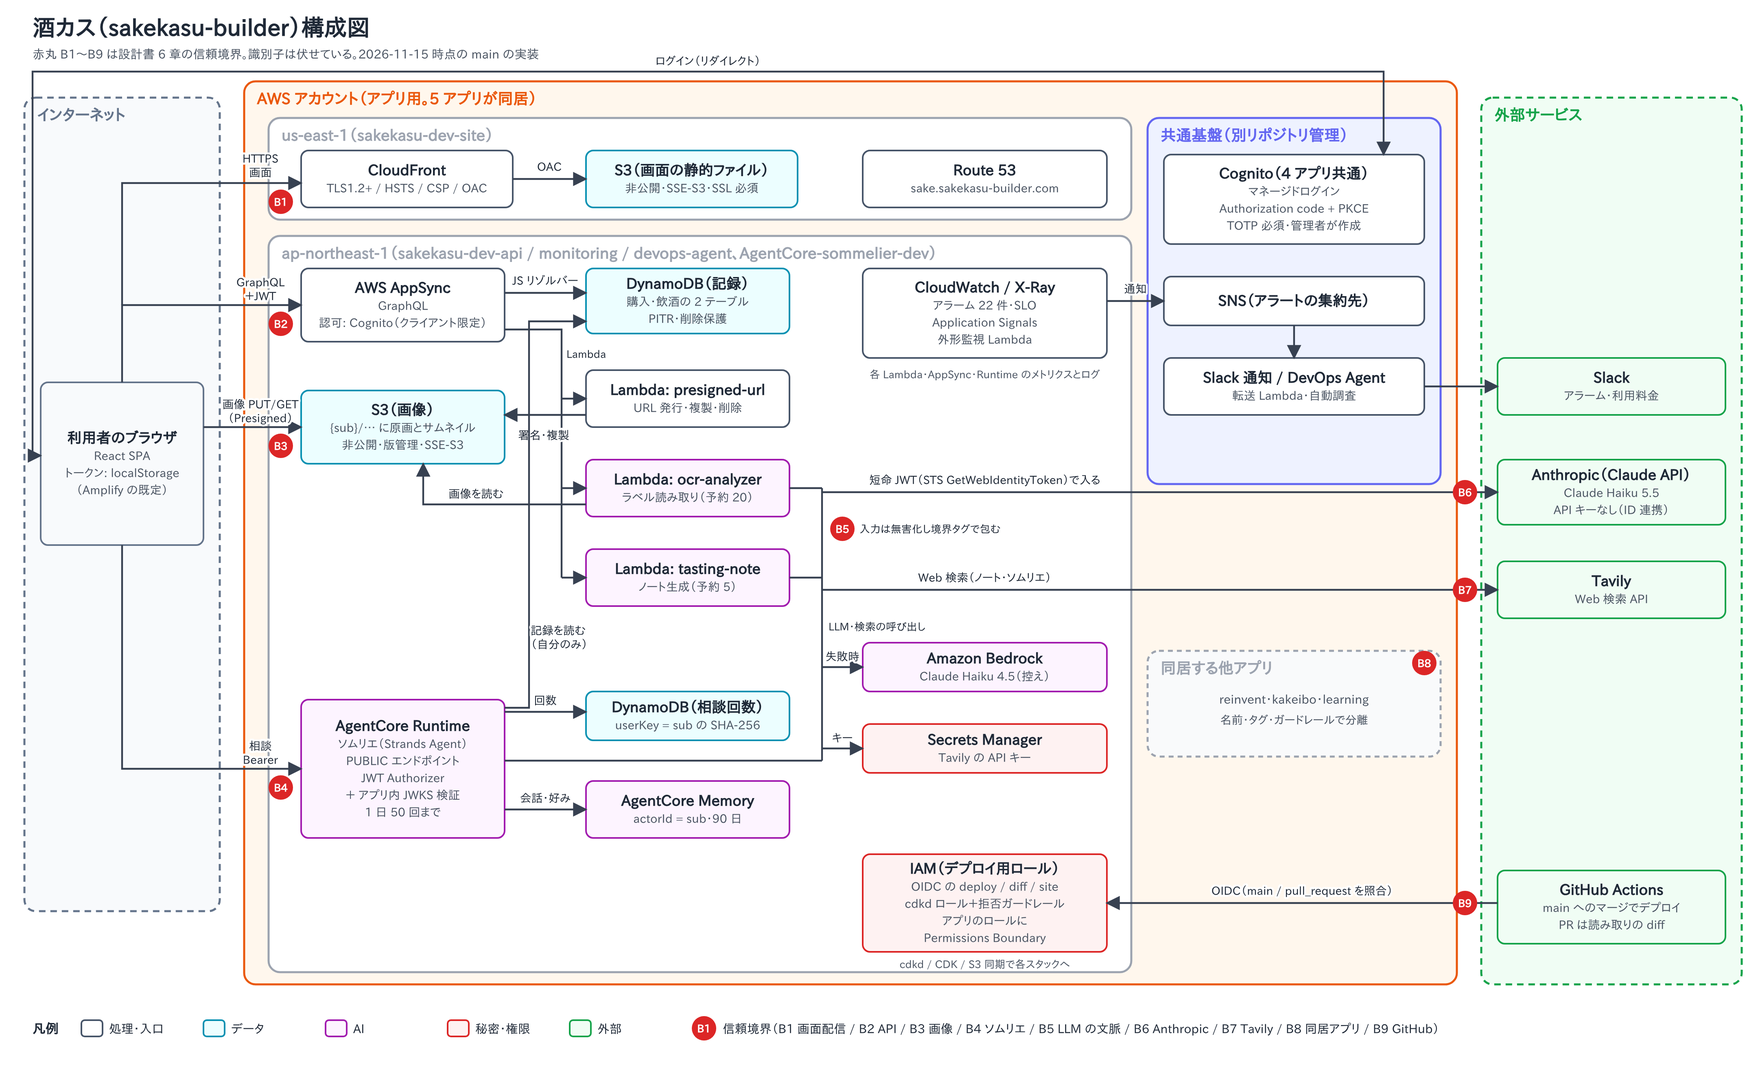
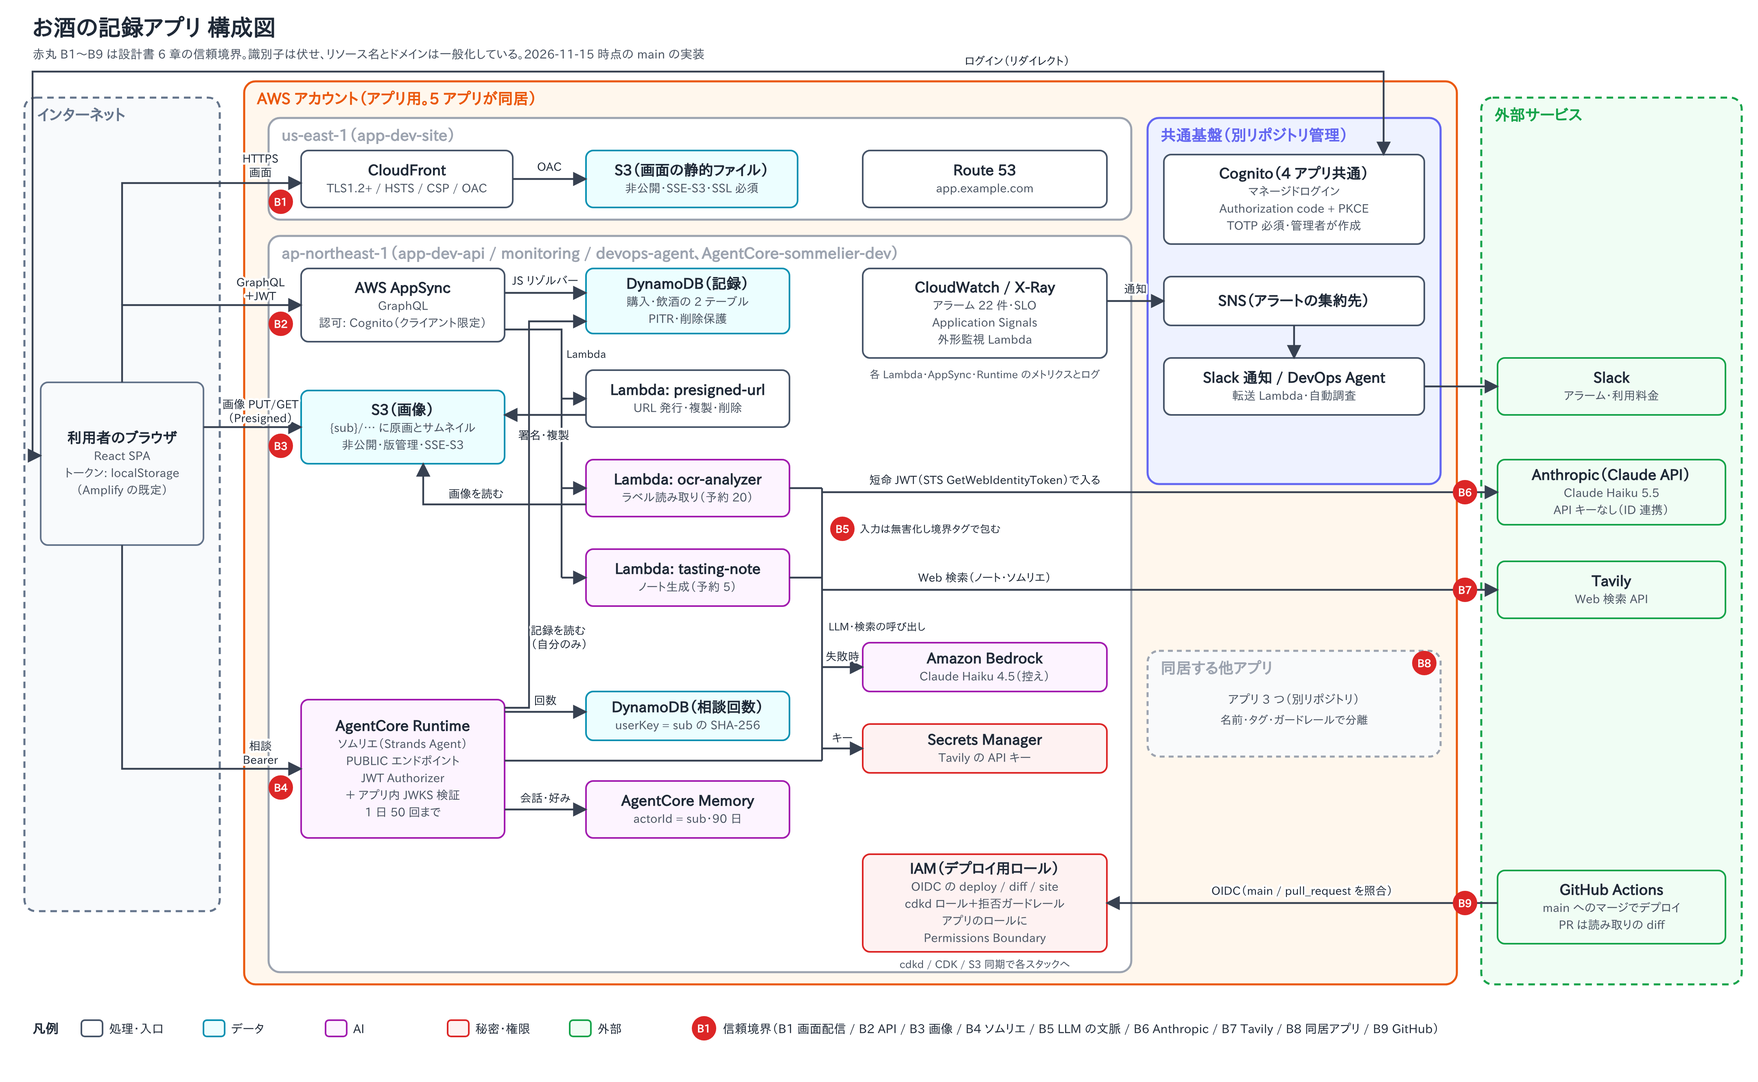
設計書と構成図の固有名を一般化する
社外のブログにも載せるため、アプリ名・リソース名の接頭辞・ドメイン・
同居アプリの名前を伏せた。接頭辞は app、ドメインは example.com に
置き換え、設計書の冒頭にその旨を書いた。

Claude-Session: https://claude.ai/code/session_01QSYTpXqBrNkHwsXtNQcQA7

diff --git a/docs/design.md b/docs/design.md
@@ -1,12 +1,13 @@
-# 酒カス（sakekasu-builder）設計書
+# お酒の記録アプリ 設計書
 
 最終更新: 2026-11-15
-対象リポジトリ: `yuuuuuuu168/sakekasu-builder`（main ブランチ時点の実装）
+対象: アプリ本体・インフラ・AI エージェントを収めたリポジトリの main ブランチ時点の実装
 
 この文書は、AWS Security Agent のデザインレビューに渡すために、実装済みの構成をセキュリティの観点から書き起こしたものである。
 レビューにはこの 1 ファイルだけを渡しても読めるように書いてある。リポジトリの他の文書（README や docs 配下）は参照しなくてよく、必要な事項は本書に要約した。
 内容は「何がどこにあり、誰が何にアクセスでき、どこで何を検証しているか」に絞る。
 アカウント ID、ユーザープール ID、クライアント ID などの識別子は伏せ、`<...>` で示す。
+リソース名とドメインは一般化してある。名前の接頭辞を `app`、ドメインを `example.com` に置き換えており、実物の名前とは異なる。
 
 ---
 
@@ -44,28 +45,28 @@
 
 ```
                        ┌──────────────────────────────────────────┐
- 利用者のブラウザ ────▶ │ CloudFront（sake.sakekasu-builder.com）     │──OAC──▶ S3（画面の静的ファイル）
+ 利用者のブラウザ ────▶ │ CloudFront（app.example.com）            │──OAC──▶ S3（画面の静的ファイル）
   (React SPA)          │  TLS1.2+ / HSTS / CSP / X-Frame-Options   │
                        └──────────────────────────────────────────┘
       │
       │ ① ログイン: 共通ログイン（Cognito マネージドログイン、Authorization code + PKCE、TOTP 必須）
-      │             auth.sakekasu-builder.com  ※別リポジトリ（sakekasu-integrated_environment）が管理
+      │             auth.example.com  ※共通基盤のリポジトリが管理
       │
       │ ② GraphQL（Cognito のトークン）
       ▼
  ┌──────────────────────┐      ┌───────────────────────────────┐
  │ AWS AppSync          │─────▶│ DynamoDB                      │
- │ 認可: Cognito User    │ JS   │  dev-sakekasu-purchase-records │
- │ Pool（クライアント限定） │ resolver│  dev-sakekasu-drinking-records │
+ │ 認可: Cognito User    │ JS   │  dev-app-purchase-records     │
+ │ Pool（クライアント限定） │ resolver│  dev-app-drinking-records     │
  └──────────────────────┘      │  （GSI: owner-index）           │
       │ Lambda リゾルバー         └───────────────────────────────┘
-      ├──▶ presigned-url Lambda ──▶ S3（dev-sakekasu-images。画像の原画とサムネイル）
+      ├──▶ presigned-url Lambda ──▶ S3（dev-app-images。画像の原画とサムネイル）
       ├──▶ ocr-analyzer Lambda ──▶ S3 から画像取得 → Claude API（失敗時 Bedrock）
       └──▶ tasting-note Lambda ──▶ Claude API（失敗時 Bedrock）＋ Tavily 検索 API
       │
       │ ③ 画像の PUT / GET（S3 の Presigned URL。ブラウザから S3 へ直接）
       ▼
-     S3（dev-sakekasu-images）
+     S3（dev-app-images）
 
       │ ④ ソムリエ相談（Cognito のアクセストークンを Bearer で付与、ストリーミング応答）
       ▼
@@ -74,7 +75,7 @@
  │  Strands Agent（Python）           │
  └──────────────────────────────────┘
       ├──▶ DynamoDB（記録の読み取りのみ。owner-index を検証済み sub で引く）
-      ├──▶ DynamoDB（dev-sakekasu-sommelier-chat-quota。1 日の相談回数）
+      ├──▶ DynamoDB（dev-app-sommelier-chat-quota。1 日の相談回数）
       ├──▶ AgentCore Memory（会話の続きと好み。actorId = sub、90 日で失効）
       ├──▶ Claude API（失敗時 Bedrock）
       └──▶ Tavily 検索 API（API キーは Secrets Manager）
@@ -84,19 +85,19 @@
 
 | スタック | アカウント / リージョン | デプロイ方法 | 中身 |
 | --- | --- | --- | --- |
-| `sakekasu-dev-api` | アプリ / ap-northeast-1 | cdkd（GitHub Actions） | AppSync、DynamoDB 2 本、画像の S3、Lambda 3 本 |
-| `sakekasu-dev-monitoring` | アプリ / ap-northeast-1 | cdkd（GitHub Actions） | CloudWatch アラーム 22 件、SLO、外形監視 Lambda |
-| `sakekasu-dev-devops-agent` | アプリ / ap-northeast-1 | cdkd（GitHub Actions） | DevOps Agent が引き受ける読み取りロール |
-| `sakekasu-dev-site-dns` | アプリ / ap-northeast-1 | cdkd（GitHub Actions） | `sake.sakekasu-builder.com` のホストゾーン |
-| `sakekasu-dev-site` | アプリ / us-east-1 | cdkd（GitHub Actions） | 画面の S3、CloudFront、Route 53 レコード |
+| `app-dev-api` | アプリ / ap-northeast-1 | cdkd（GitHub Actions） | AppSync、DynamoDB 2 本、画像の S3、Lambda 3 本 |
+| `app-dev-monitoring` | アプリ / ap-northeast-1 | cdkd（GitHub Actions） | CloudWatch アラーム 22 件、SLO、外形監視 Lambda |
+| `app-dev-devops-agent` | アプリ / ap-northeast-1 | cdkd（GitHub Actions） | DevOps Agent が引き受ける読み取りロール |
+| `app-dev-site-dns` | アプリ / ap-northeast-1 | cdkd（GitHub Actions） | `app.example.com` のホストゾーン |
+| `app-dev-site` | アプリ / us-east-1 | cdkd（GitHub Actions） | 画面の S3、CloudFront、Route 53 レコード |
 | `AgentCore-sommelier-dev` | アプリ / ap-northeast-1 | CDK（GitHub Actions） | AgentCore Runtime、Memory、相談回数のテーブル |
-| `sakekasu-github-oidc` | アプリ / ap-northeast-1 | CloudFormation（手動） | GitHub OIDC プロバイダー、Actions 用ロール、Permissions Boundary |
-| `sakekasu-billing-notifier` | 管理 / ap-northeast-1 | CloudFormation（手動） | 毎日の利用料金を Slack へ通知 |
+| `app-github-oidc` | アプリ / ap-northeast-1 | CloudFormation（手動） | GitHub OIDC プロバイダー、Actions 用ロール、Permissions Boundary |
+| `app-billing-notifier` | 管理 / ap-northeast-1 | CloudFormation（手動） | 毎日の利用料金を Slack へ通知 |
 
 ### 2.3 同居している他システムとの関係
 
-- 同じ AWS アカウント・リージョンに、別リポジトリの 4 アプリ（reinvent、kakeibo、learning、integrated）が同居している。
-- 認証基盤（Cognito ユーザープール）と監視の通知先（SNS トピック、Slack 通知、DevOps Agent への転送）は integrated（共通基盤）が持ち、本アプリは参照するだけ。
+- 同じ AWS アカウント・リージョンに、別リポジトリで管理する他の 4 システム（3 つのアプリと共通基盤）が同居している。
+- 認証基盤（Cognito ユーザープール）と監視の通知先（SNS トピック、Slack 通知、DevOps Agent への転送）は共通基盤が持ち、本アプリは参照するだけ。
 - 他アプリとの分離は、命名規約・App タグ・デプロイ用ロールのガードレール（拒否ポリシー）・アプリのロールの Permissions Boundary で行う（8 章）。
 
 ### 2.4 技術スタック
@@ -119,13 +120,13 @@
 
 | ストア | 名前 | キー | 保護設定 |
 | --- | --- | --- | --- |
-| DynamoDB | `dev-sakekasu-purchase-records` | PK `id`（UUID）、GSI `owner-index`（PK `owner`） | PITR 有効、削除保護、スタック削除時に保持（RETAIN）、AWS 管理キーで暗号化（既定） |
-| DynamoDB | `dev-sakekasu-drinking-records` | 同上 | 同上 |
-| DynamoDB | `dev-sakekasu-sommelier-chat-quota` | PK `userKey`（sub の SHA-256）、SK `day` | TTL（`expiresAt`、2 日）。消えても困らないため RemovalPolicy は DESTROY |
-| S3 | `dev-sakekasu-images` | `{sub}/{purchase|drinking|tmp}/{recordId}/{fileName}` | パブリックアクセス全遮断、SSE-S3、バージョニング、ライフサイクル（下記）、CORS は画面のオリジンと localhost のみ |
-| S3 | `dev-sakekasu-site-<アカウントID>` | 画面の静的ファイル | パブリックアクセス全遮断、SSE-S3、`enforceSSL`、CloudFront の OAC 経由でのみ読む |
+| DynamoDB | `dev-app-purchase-records` | PK `id`（UUID）、GSI `owner-index`（PK `owner`） | PITR 有効、削除保護、スタック削除時に保持（RETAIN）、AWS 管理キーで暗号化（既定） |
+| DynamoDB | `dev-app-drinking-records` | 同上 | 同上 |
+| DynamoDB | `dev-app-sommelier-chat-quota` | PK `userKey`（sub の SHA-256）、SK `day` | TTL（`expiresAt`、2 日）。消えても困らないため RemovalPolicy は DESTROY |
+| S3 | `dev-app-images` | `{sub}/{purchase|drinking|tmp}/{recordId}/{fileName}` | パブリックアクセス全遮断、SSE-S3、バージョニング、ライフサイクル（下記）、CORS は画面のオリジンと localhost のみ |
+| S3 | `dev-app-site-<アカウントID>` | 画面の静的ファイル | パブリックアクセス全遮断、SSE-S3、`enforceSSL`、CloudFront の OAC 経由でのみ読む |
 | AgentCore Memory | `preference` | 名前空間 `sommelier/preference/{actorId}`、actorId は sub | イベントは 90 日で失効 |
-| Secrets Manager | `dev-sakekasu/sommelier/tavily-api-key` | — | 値はリポジトリに置かず手で登録。読めるのは tasting-note Lambda とソムリエ Runtime のロールだけ |
+| Secrets Manager | `dev-app/sommelier/tavily-api-key` | — | 値はリポジトリに置かず手で登録。読めるのは tasting-note Lambda とソムリエ Runtime のロールだけ |
 
 画像バケットのライフサイクル:
 
@@ -173,14 +174,14 @@
 | 項目 | 内容 |
 | --- | --- |
 | IdP | Amazon Cognito ユーザープール（4 アプリ共通。共通基盤が管理） |
-| ログイン画面 | Cognito マネージドログイン（`auth.sakekasu-builder.com`）へリダイレクト |
+| ログイン画面 | Cognito マネージドログイン（`auth.example.com`）へリダイレクト |
 | フロー | OAuth 2.0 Authorization code + PKCE。クライアントシークレットなし（パブリッククライアント） |
 | MFA | TOTP 必須（パスキーでのログインにも対応） |
 | パスワード | 16 文字以上 |
 | ユーザー作成 | 管理者のみ（セルフサインアップなし） |
 | スコープ | `openid` `email` `profile`。`aws.cognito.signin.user.admin` は付与していない（画面から属性変更・MFA 変更・パスワード変更の API を呼べない） |
 | トークン寿命 | アクセス 1 時間、リフレッシュ 30 日 |
-| 戻り先 URL | `https://sake.sakekasu-builder.com/`、`http://localhost:5173/`（完全一致）。ログアウト後は共通の入口 `https://sakekasu-builder.com/` |
+| 戻り先 URL | `https://app.example.com/`、`http://localhost:5173/`（完全一致）。ログアウト後は共通の入口 `https://example.com/` |
 | サインアウト | Amplify の `signOut`（トークン失効）。ソムリエの画面履歴とセッション ID もあわせて削除 |
 
 ### 4.2 API の認可
@@ -188,7 +189,7 @@
 **AppSync**
 
 - 既定の認可方式は Cognito User Pool のみ（API キー・IAM・OIDC の追加方式なし）。
-- 共有プールには他アプリのクライアントもいるため、`appIdClientRegex` で builder のクライアント ID に完全一致するトークンだけを通す。
+- 共有プールには他アプリのクライアントもいるため、`appIdClientRegex` で 本アプリのクライアント ID に完全一致するトークンだけを通す。
 - 記録単位の認可はリゾルバーで、トークンの `sub`（`ctx.identity.sub`）と記録の `owner` を突き合わせる。
 
 | 操作 | 所有者の確かめ方 |
@@ -204,7 +205,7 @@
 
 二段で検証する。
 
-1. AgentCore Runtime の JWT Authorizer（`CUSTOM_JWT`）。共通プールの OIDC ディスカバリー URL を使い、`allowedClients` で builder のクライアントに限定する。Runtime に渡すヘッダーは `Authorization` のみ（`requestHeaderAllowlist`）。
+1. AgentCore Runtime の JWT Authorizer（`CUSTOM_JWT`）。共通プールの OIDC ディスカバリー URL を使い、`allowedClients` で 本アプリのクライアントに限定する。Runtime に渡すヘッダーは `Authorization` のみ（`requestHeaderAllowlist`）。
 2. アプリ内での再検証（`sommelier/app/sommelier/auth.py`）。
    - JWKS で署名を検証（RS256 のみ）。`exp`・`iss`・`sub` を必須にする。
    - `token_use` が `access` なら `client_id`、`id` なら `aud` を許可リストと照合。それ以外の `token_use` は拒否。
@@ -218,7 +219,7 @@
 
 | 呼び出し元 → 先 | 方式 |
 | --- | --- |
-| Lambda / Runtime → Claude API | STS `GetWebIdentityToken` で AWS 署名の JWT（宛先 `https://api.anthropic.com`、寿命 300 秒以内、RS256）を取り、Anthropic 側のフェデレーションルール（発行者・ロール ARN の前方一致 `sakekasu-dev-llm-`・宛先）で短命の資格情報と交換。API キーは持たない |
+| Lambda / Runtime → Claude API | STS `GetWebIdentityToken` で AWS 署名の JWT（宛先 `https://api.anthropic.com`、寿命 300 秒以内、RS256）を取り、Anthropic 側のフェデレーションルール（発行者・ロール ARN の前方一致 `app-dev-llm-`・宛先）で短命の資格情報と交換。API キーは持たない |
 | Lambda / Runtime → Bedrock | 実行ロールの IAM。`bedrock:InvokeModel` を推論プロファイル 1 つとその振り先の foundation-model（ap-northeast-1 / ap-northeast-3）に限定（API スタックの Lambda） |
 | Lambda / Runtime → Tavily | Secrets Manager の API キー。読み取り権限はそのシークレットの ARN（`<名前>-*`）だけ |
 | GitHub Actions → AWS | GitHub OIDC。ロールごとに `sub`（main ブランチ / pull_request）と `aud` を照合（7 章） |
@@ -352,10 +353,10 @@ frame-ancestors 'none'; base-uri 'self'; form-action 'self'; object-src 'none'
 | ワークフロー | きっかけ | 使うロール | 内容 |
 | --- | --- | --- | --- |
 | `test.yml` | PR | なし | フロント・infra・ソムリエのテスト、lint、型検査 |
-| `cdk-diff.yml` | PR | `sakekasu-github-actions-diff`（読み取りのみ、`sub` = `pull_request`） | cdkd diff を PR にコメント |
-| `deploy.yml` | main へのマージ | `sakekasu-github-actions-deploy` → `sakekasu-cdkd-deploy` | infra を cdkd でデプロイ |
-| `deploy-sommelier.yml` | main へのマージ（`sommelier/` の変更） | `sakekasu-github-actions-deploy` | pytest と synth テストの後に CDK でデプロイ |
-| `deploy-site.yml` | main へのマージ | `sakekasu-github-actions-site` | フロントをビルドしてから認証情報を取り、配信バケットへ同期 |
+| `cdk-diff.yml` | PR | `app-github-actions-diff`（読み取りのみ、`sub` = `pull_request`） | cdkd diff を PR にコメント |
+| `deploy.yml` | main へのマージ | `app-github-actions-deploy` → `app-cdkd-deploy` | infra を cdkd でデプロイ |
+| `deploy-sommelier.yml` | main へのマージ（`sommelier/` の変更） | `app-github-actions-deploy` | pytest と synth テストの後に CDK でデプロイ |
+| `deploy-site.yml` | main へのマージ | `app-github-actions-site` | フロントをビルドしてから認証情報を取り、配信バケットへ同期 |
 | `claude-review.yml` | PR | なし（Claude Code の OAuth トークン） | AI によるコードレビュー |
 | `claude-hooks.yml` | PR | なし | Claude Code のフックのテスト |
 
@@ -365,22 +366,22 @@ frame-ancestors 'none'; base-uri 'self'; form-action 'self'; object-src 'none'
 
 | ロール | 信頼 | 権限 |
 | --- | --- | --- |
-| `sakekasu-github-actions-deploy` | GitHub OIDC、main ブランチのみ | cdkd ロールと CDK bootstrap ロールへの AssumeRole だけ |
-| `sakekasu-cdkd-deploy` | 上の deploy ロールのみ（GitHub から直接は引き受けられない）。セッション 1 時間 | builder のリソースを作り替える権限 ＋ 拒否だけのガードレール（下記） |
-| `sakekasu-github-actions-diff` | GitHub OIDC、pull_request のみ | 読み取りのみ |
-| `sakekasu-github-actions-site` | GitHub OIDC、main ブランチのみ。セッション 1 時間 | 配信バケットの List / Put / Delete のみ。CloudFront・IAM には触れない |
+| `app-github-actions-deploy` | GitHub OIDC、main ブランチのみ | cdkd ロールと CDK bootstrap ロールへの AssumeRole だけ |
+| `app-cdkd-deploy` | 上の deploy ロールのみ（GitHub から直接は引き受けられない）。セッション 1 時間 | 本アプリのリソースを作り替える権限 ＋ 拒否だけのガードレール（下記） |
+| `app-github-actions-diff` | GitHub OIDC、pull_request のみ | 読み取りのみ |
+| `app-github-actions-site` | GitHub OIDC、main ブランチのみ。セッション 1 時間 | 配信バケットの List / Put / Delete のみ。CloudFront・IAM には触れない |
 
-ガードレール（`sakekasu-cdkd-deploy-guardrail`、拒否のみ）の主な文:
+ガードレール（`app-cdkd-deploy-guardrail`、拒否のみ）の主な文:
 
 - 他アプリのリソース・他アプリの App タグが付いたリソースへの操作を拒否
-- builder の接頭辞の外にあるロールの作成・変更を拒否、GitHub Actions 用ロールの改ざんを拒否
+- 本アプリの接頭辞の外にあるロールの作成・変更を拒否、GitHub Actions 用ロールの改ざんを拒否
 - Permissions Boundary を付けないロールの作成、境界の取り外し・書き換えを拒否
 - cdkd の状態バケットの設定変更、他アプリの状態ファイルの書き込み、共用資産の破壊を拒否
 - 他アプリの AgentCore Runtime への操作を拒否
 
 ### 7.3 アプリのロールの Permissions Boundary
 
-cdkd が作るアプリのロール（Lambda など）には `sakekasu-role-boundary` を必ず付ける。
+cdkd が作るアプリのロール（Lambda など）には `app-role-boundary` を必ず付ける。
 
 - `iam:*`、`organizations:*`、`account:*` を拒否
 - `sts:*` を拒否。例外は宛先を指定した `sts:GetWebIdentityToken` だけで、宛先が `https://api.anthropic.com` 以外なら拒否
@@ -399,9 +400,9 @@ cdkd が作るアプリのロール（Lambda など）には `sakekasu-role-boun
 | ロール | 主な権限 |
 | --- | --- |
 | presigned-url Lambda | 画像バケットの読み書き（`grantReadWrite`）、ログ、X-Ray、Application Signals |
-| ocr-analyzer Lambda（`sakekasu-dev-llm-ocr-analyzer`） | 画像バケットの読み取り、`bedrock:InvokeModel`（1 モデルのみ）、`sts:GetWebIdentityToken`（条件付き）、ログ、X-Ray、Application Signals |
-| tasting-note Lambda（`sakekasu-dev-llm-tasting-note`） | `bedrock:InvokeModel`（1 モデルのみ）、`sts:GetWebIdentityToken`（条件付き）、Tavily キーの `GetSecretValue`、ログ、X-Ray |
-| ソムリエ Runtime（`sakekasu-dev-llm-sommelier`） | 記録 2 テーブルの `Query` / `GetItem`、回数テーブルの `UpdateItem`、`sts:GetWebIdentityToken`（条件付き）、Tavily キーの `GetSecretValue`、AgentCore Memory と Bedrock の呼び出し（AgentCore の CDK コンストラクトが付与） |
+| ocr-analyzer Lambda（`app-dev-llm-ocr-analyzer`） | 画像バケットの読み取り、`bedrock:InvokeModel`（1 モデルのみ）、`sts:GetWebIdentityToken`（条件付き）、ログ、X-Ray、Application Signals |
+| tasting-note Lambda（`app-dev-llm-tasting-note`） | `bedrock:InvokeModel`（1 モデルのみ）、`sts:GetWebIdentityToken`（条件付き）、Tavily キーの `GetSecretValue`、ログ、X-Ray |
+| ソムリエ Runtime（`app-dev-llm-sommelier`） | 記録 2 テーブルの `Query` / `GetItem`、回数テーブルの `UpdateItem`、`sts:GetWebIdentityToken`（条件付き）、Tavily キーの `GetSecretValue`、AgentCore Memory と Bedrock の呼び出し（AgentCore の CDK コンストラクトが付与） |
 | AppSync のデータソース | 各テーブルへの読み書き（CDK の `addDynamoDbDataSource` の既定）、各 Lambda の Invoke |
 | DevOps Agent 用 | `AIDevOpsAgentAccessPolicy`（読み取り）、Resource Explorer のサービスリンクロール作成のみ |
 
